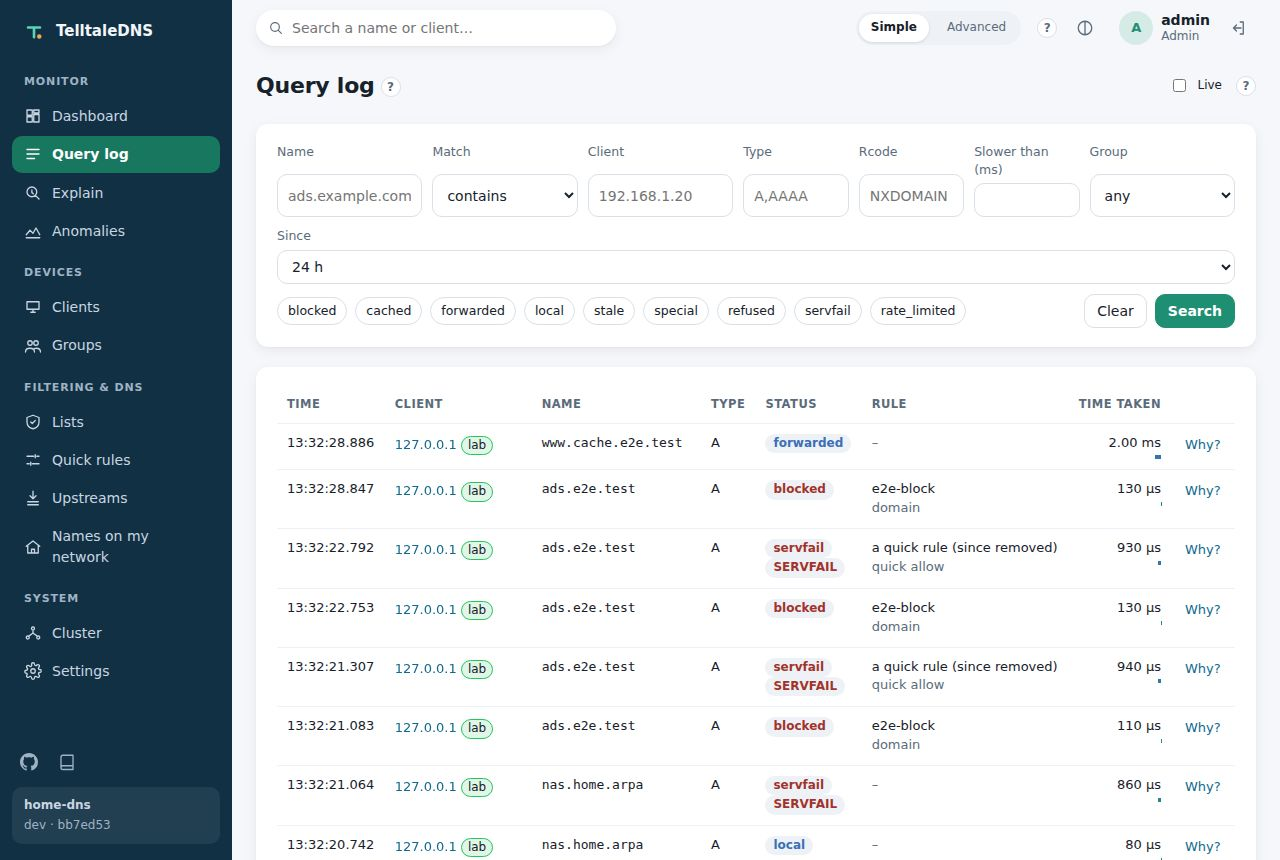
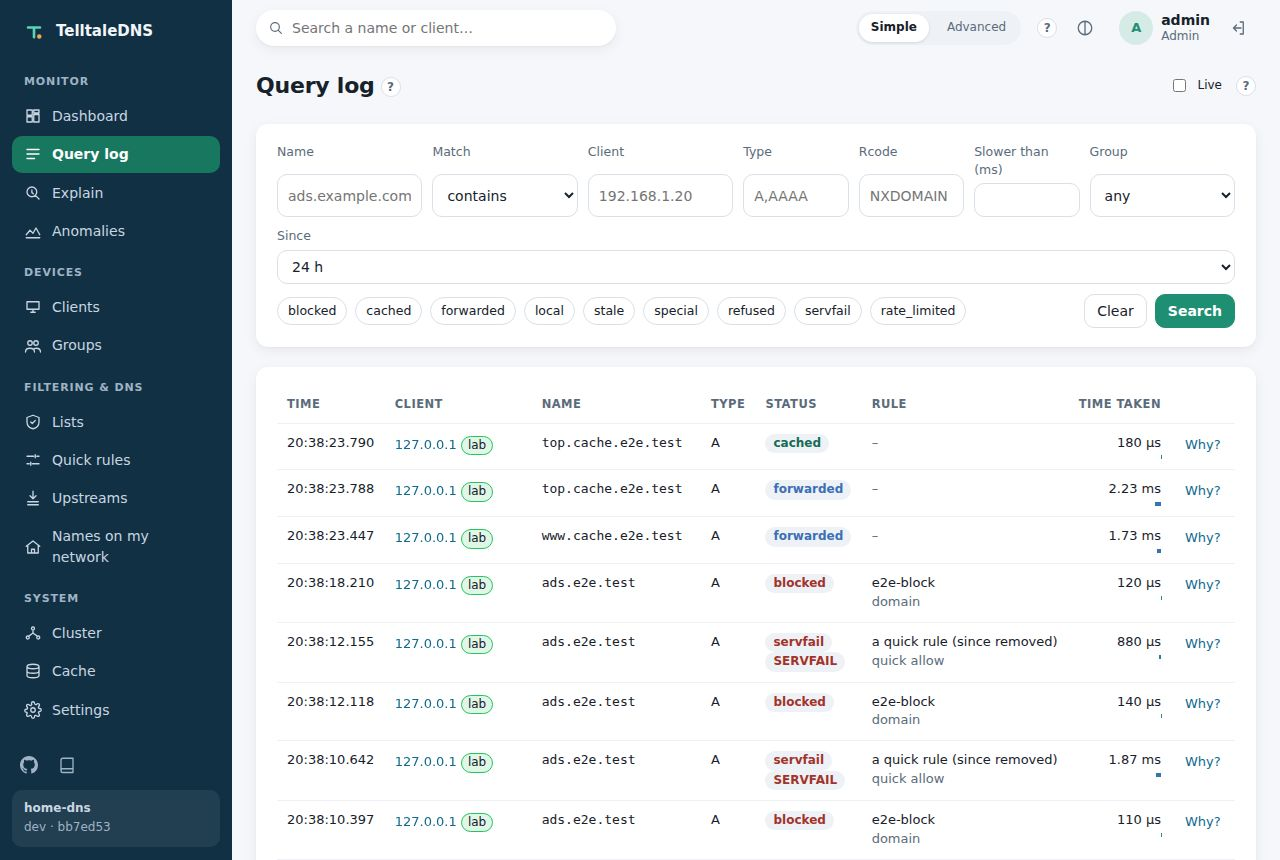
docs(site): the Cluster topology, the Cache page, and scaled mode [DOC-006, CLU-008]
Screenshots of the Cache page (the test server) and the Cluster page
(example data, captioned as such: the test server runs alone); the install
guide covers mode: scaled, pods leaving on shutdown and draining,
service.dns.alsoServe, and the topology. Screenshots refreshed.

diff --git a/ui/tests/e2e/2-shots.spec.ts b/ui/tests/e2e/2-shots.spec.ts
@@ -30,6 +30,7 @@ for (const theme of ['light', 'dark'] as const) {
       ['queries', '/#/queries'],
       ['lists', '/#/lists'],
       ['settings', '/#/settings?tab=tokens'],
+      ['cache', '/#/cache'],
     ]) {
       await page.goto(path);
       // The test server is minutes old: the 15-minute range shows its traffic.
@@ -37,6 +38,13 @@ for (const theme of ['light', 'dark'] as const) {
       await page.waitForTimeout(600);
       await page.screenshot({ path: shot(`${name}-${theme}`), type: 'jpeg', quality: 80 });
     }
+    // The Cluster page with example data (the test server runs alone): a controller and three
+    // resolver pods on two Kubernetes nodes, and a Pi. The site's caption says it's an example.
+    await page.route('**/api/v1/cluster', (route) => route.fulfill({ json: exampleCluster() }));
+    await page.goto('/#/cluster');
+    await page.waitForTimeout(600);
+    await page.screenshot({ path: shot(`cluster-${theme}`), type: 'jpeg', quality: 80 });
+    await page.unroute('**/api/v1/cluster');
     // "Why?" on a blocked query: it names the list and the rule.
     await page.goto('/#/queries?status=blocked');
     await page.getByRole('button', { name: 'Why?' }).first().click();
@@ -64,4 +72,44 @@ for (const theme of ['light', 'dark'] as const) {
     await page.waitForTimeout(600);
     await page.screenshot({ path: review(`phone-dashboard-${theme}`), type: 'jpeg', quality: 80 });
   });
+}
+
+/** An example cluster for the site's screenshot (T6.14): not a real deployment. */
+function exampleCluster() {
+  const node = (o: Record<string, unknown>) => ({
+    ephemeral: false, witness: false, protocol: 4, role: 'replica', thisNode: false, eligible: true,
+    version: '0.1.0-edge', up: true, connected: true, link: 'inbound', lastSeenSecondsAgo: 2, rttMs: 1,
+    configSeq: 41, configLag: 0, ready: true, qps: 12, servfailPercent: 0.1, upstreamP90Ms: 18,
+    uptimeSeconds: 86_400, restarts: 0, cacheEntries: 3_200, cacheHitPercent: 71, querySharePercent: 20,
+    configSource: 'gitops', ...o,
+  });
+  const pod = (name: string, kube: string, o: Record<string, unknown> = {}) =>
+    node({ nodeId: `id-${name}`, site: 'k8s', ephemeral: true, pod: `telltale-resolver-${name}`, kubeNode: kube,
+      eligible: false, configSource: undefined, uptimeSeconds: 7_200, ...o });
+  const at = (minAgo: number) => new Date(Date.now() - minAgo * 60_000).toISOString();
+  return {
+    enabled: true, clusterId: 'example', name: 'home', thisNode: '3f9a1c07d2e84b16', newestConfigSeq: 41, healthy: true,
+    authority: 'gitops', conflicts: [],
+    checks: [
+      { id: 'peers_up', ok: true, summary: 'All 4 peers are up' },
+      { id: 'in_sync', ok: true, summary: 'Every node serves configuration version 41' },
+      { id: 'serving', ok: true, summary: 'Every node is serving DNS' },
+      { id: 'load_balance', ok: true, summary: "Queries are spread evenly over each site's pods" },
+    ],
+    nodes: [
+      node({ nodeId: '3f9a1c07d2e84b16', site: 'k8s', role: 'primary', thisNode: true, link: 'self', rttMs: null,
+        pod: 'telltale-0', kubeNode: 'node-a', qps: 14, querySharePercent: 22 }),
+      pod('6c9f-2xk4p', 'node-a', { qps: 13, querySharePercent: 21 }),
+      pod('6c9f-8hq7d', 'node-b', { qps: 12, querySharePercent: 19 }),
+      pod('6c9f-k2m9w', 'node-b', { qps: 12, querySharePercent: 19, ready: false, configLag: 1 }),
+      node({ nodeId: 'b81e5d2a90c4f377', site: 'home-pi', rttMs: 4, qps: 12, querySharePercent: 19, configSource: 'file',
+        cacheHitPercent: 76 }),
+    ],
+    events: [
+      { at: at(2), kind: 'joined', nodeId: 'id-6c9f-k2m9w', detail: 'a new resolver pod' },
+      { at: at(3), kind: 'left', nodeId: 'id-6c9f-r5t1z', detail: 'shut down (scaled in, replaced, or deleted)' },
+      { at: at(9), kind: 'published', nodeId: '3f9a1c07d2e84b16', detail: 'version 41' },
+      { at: at(9), kind: 'applied', nodeId: 'b81e5d2a90c4f377', detail: 'version 41: 1 blob(s) fetched, 38 ms' },
+    ],
+  };
 }

diff --git a/site/install.html b/site/install.html
@@ -157,7 +157,8 @@ kubectl -n telltale exec telltale-0 -- /usr/local/bin/telltale auth setup-token 
     <li><b>One management plane.</b> Any node's UI shows the whole cluster's dashboard and query log, and changes made there go to the primary.</li>
     <li><b>Failover.</b> Promote another node by hand (<code>telltale cluster promote</code>), or let the cluster elect one (<code>telltale cluster set-failover auto</code>) once it has a third voter, such as a tiny witness (<code>telltale cluster witness</code>).</li>
     <li><b>Node-local settings.</b> Each node keeps its own listeners, retention, and overrides; everything else is shared.</li>
-    <li><b>Kubernetes pods come and go.</b> Resolver pods join on their own and are removed when they disappear.</li>
+    <li><b>More pods in Kubernetes.</b> <code>mode: scaled</code> adds resolver pods beside the controller (<code>resolvers.replicas</code>). They join on their own, share the DNS Service, leave the cluster when they shut down, and keep answering for a few seconds while the Service drops them, so rollouts don't lose lookups. For one address for DNS, the UI, and the cluster port, set <code>service.dns.alsoServe</code>.</li>
+    <li><b>See it.</b> The Cluster page draws the cluster live: sites, the primary, pods grouped by Kubernetes node, link round trips, and each node's share of the queries.</li>
     <li><b>Git as the source.</b> Optionally, the shared configuration can come from a Git repository or a GitOps tool (<code>config_source = "gitops"</code>).</li>
     <li><b>Maintenance.</b> Rolling upgrades work across one version step (N and N−1), and <code>telltale cluster rotate-ca</code> replaces the cluster's certificate authority without downtime.</li>
   </ul>

diff --git a/site/performance.html b/site/performance.html
@@ -32,6 +32,8 @@
     <figure><img src="assets/shots/lists-light.jpg" alt="Blocklists with sizes and refresh status" width="1280" height="860" loading="lazy"><figcaption>Lists</figcaption></figure>
     <figure><img src="assets/shots/settings-dark.jpg" alt="Settings: API tokens for scripts and AI agents, in the dark theme" width="1280" height="860" loading="lazy"><figcaption>Settings: API and agent tokens (dark theme)</figcaption></figure>
     <figure><img src="assets/shots/dashboard-dark.jpg" alt="Dashboard in the dark theme" width="1280" height="860" loading="lazy"><figcaption>Dashboard (dark theme)</figcaption></figure>
+    <figure><img src="assets/shots/cluster-light.jpg" alt="Cluster page: a live topology of a Kubernetes site with a controller and three resolver pods on two nodes, and a Pi" width="1280" height="860" loading="lazy"><figcaption>Cluster topology (example data: the test server runs alone)</figcaption></figure>
+    <figure><img src="assets/shots/cache-dark.jpg" alt="Cache page: hit rate, what the cache holds, settings, and the top entries, in the dark theme" width="1280" height="860" loading="lazy"><figcaption>Cache (dark theme)</figcaption></figure>
   </div>
 </section>
 

diff --git a/site/index.html b/site/index.html
@@ -137,6 +137,7 @@
   <div class="shots">
     <figure><img src="assets/shots/dashboard-light.jpg" alt="Dashboard: KPI tiles with changes and sparklines, and queries by status" width="1280" height="860" loading="lazy"><figcaption>Dashboard</figcaption></figure>
     <figure><img src="assets/shots/queries-dark.jpg" alt="Query log with filters, in the dark theme" width="1280" height="860" loading="lazy"><figcaption>Query log (dark theme)</figcaption></figure>
+    <figure><img src="assets/shots/cluster-light.jpg" alt="Cluster page: a live topology of a Kubernetes site and a Pi" width="1280" height="860" loading="lazy"><figcaption>Cluster topology (example data)</figcaption></figure>
   </div>
 </section>
 
